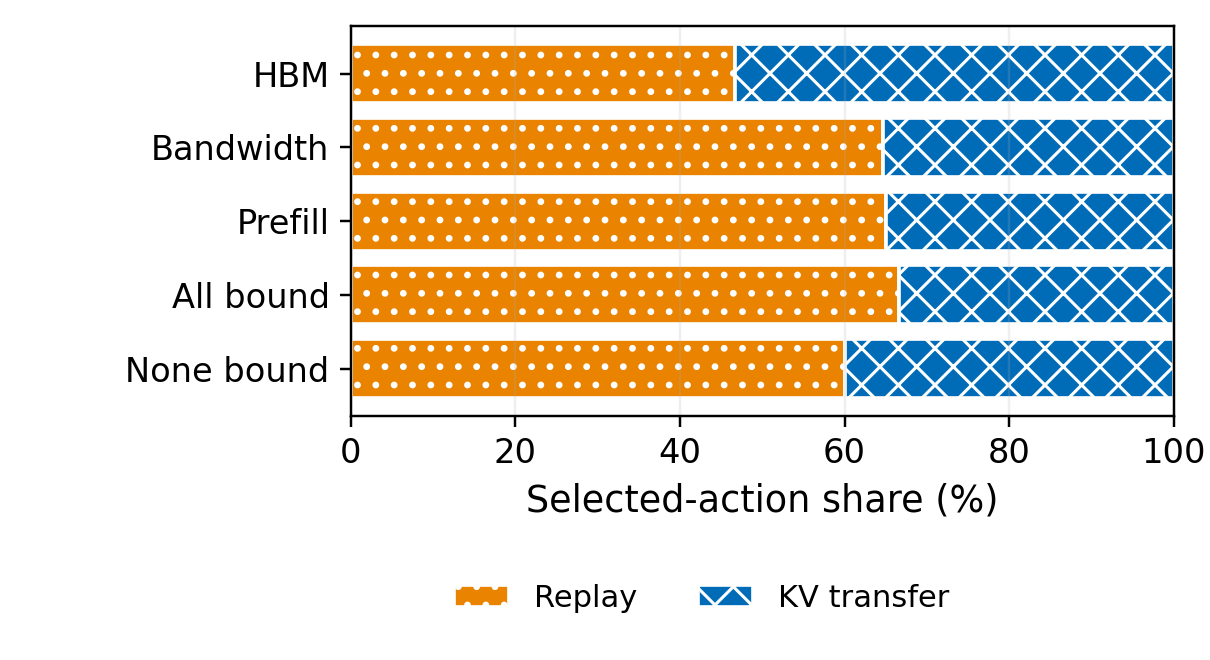
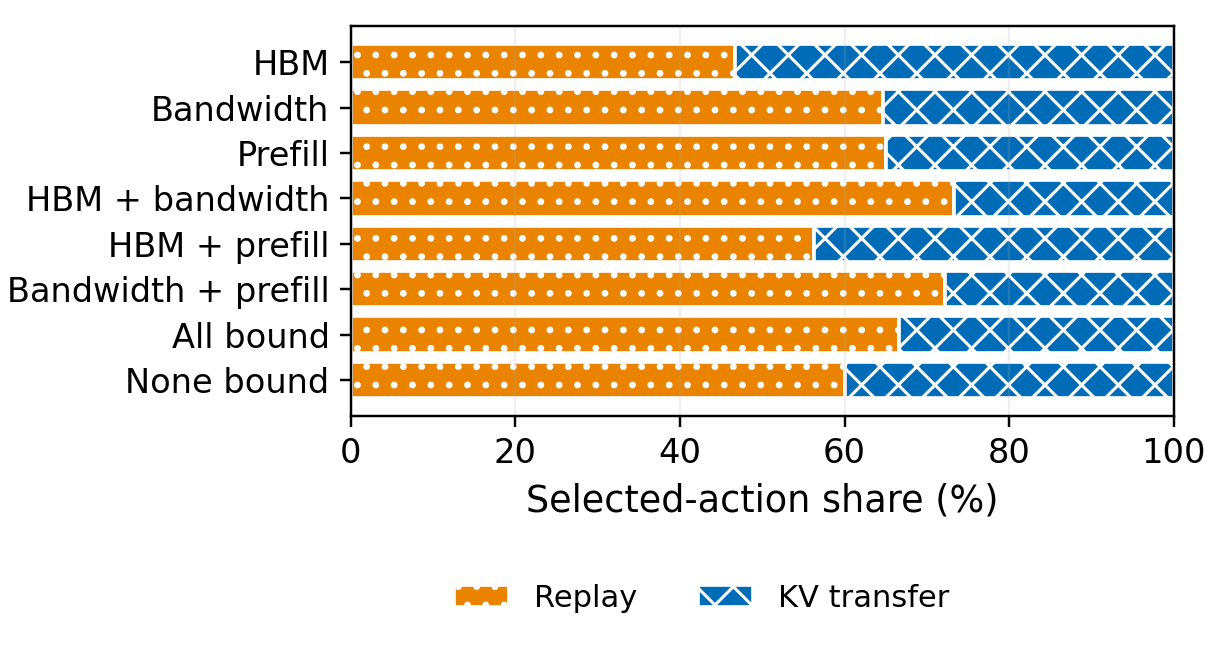
Show every constraint combination in action mix

Changed region(s): [[0.0, 0.0606, 0.9785, 0.6061]]

diff --git a/agent-migrate/queue-haul/plot_pooled_action_adaptation.py b/agent-migrate/queue-haul/plot_pooled_action_adaptation.py
@@ -36,11 +36,14 @@ CASE_NAMES = {
     "constraint/quota-30": "Germany replay quota",
 }
 ACTION_MIX_CASES = (
-    ("single/hbm", "HBM"),
-    ("single/bandwidth", "Bandwidth"),
-    ("single/prefill", "Prefill"),
-    ("single/all-bound", "All bound"),
-    ("single/none-bound", "None bound"),
+    ("constraints/hbm", "HBM"),
+    ("constraints/bandwidth", "Bandwidth"),
+    ("constraints/prefill", "Prefill"),
+    ("constraints/hbm-bandwidth", "HBM + bandwidth"),
+    ("constraints/hbm-prefill", "HBM + prefill"),
+    ("constraints/bandwidth-prefill", "Bandwidth + prefill"),
+    ("constraints/all", "All bound"),
+    ("constraints/none", "None bound"),
 )
 plot_style.apply()
 
@@ -72,33 +75,32 @@ def pooled_composition(rows):
     return output
 
 
-def single_bottleneck_scenarios(bound, released):
-    def make(case, hbm=False, prefill=False, bandwidth=False):
+def constraint_scenarios(bound, released):
+    def make(case, constraints):
         scenario = {**released, "condition_id": case,
                     "planning_state": case}
         scenario["background"] = {
-            "east": bound["background"]["east"] if hbm
+            "east": bound["background"]["east"] if "hbm" in constraints
             else released["background"]["east"],
-            "germany": bound["background"]["germany"] if prefill
+            "germany": bound["background"]["germany"] if "prefill" in constraints
             else released["background"]["germany"],
         }
         scenario["kv_capacity_fraction"] = {
-            "east": bound["kv_capacity_fraction"]["east"] if hbm
+            "east": bound["kv_capacity_fraction"]["east"]
+            if "hbm" in constraints
             else released["kv_capacity_fraction"]["east"],
             "germany": released["kv_capacity_fraction"]["germany"],
         }
-        source = bound if bandwidth else released
+        source = bound if "bandwidth" in constraints else released
         scenario.update(bandwidth=source["bandwidth"],
                         bandwidth_mbps=source["bandwidth_mbps"])
         return scenario
 
-    return {
-        "single/hbm": make("single-hbm", hbm=True),
-        "single/bandwidth": make("single-bandwidth", bandwidth=True),
-        "single/prefill": make("single-prefill", prefill=True),
-        "single/all-bound": bound,
-        "single/none-bound": released,
-    }
+    names = (case.removeprefix("constraints/") for case, _ in ACTION_MIX_CASES)
+    return {f"constraints/{name}": make(name, set(name.split("-"))
+            if name not in {"all", "none"} else
+            {"hbm", "bandwidth", "prefill"} if name == "all" else set())
+            for name in names}
 
 
 def solve_case(scenario, manifest, profile, fraction):
@@ -117,16 +119,16 @@ def solve_case(scenario, manifest, profile, fraction):
     return problem, result
 
 
-def single_bottleneck_actions(plan_paths, fraction=2 / 3):
+def constraint_combination_actions(plan_paths, fraction=2 / 3):
     profile = campaign.ModelProfile.load(campaign.MODEL_PATH)
     cases = {case: (scenario, manifest)
              for case, scenario, manifest in pooled_cases(plan_paths)}
     bound, manifest = cases["hardware_gap/all-bind"]
     released, released_manifest = cases["hardware_gap/all-release"]
     if manifest != released_manifest:
-        raise RuntimeError("single-bottleneck cases require one matched pack")
+        raise RuntimeError("constraint combinations require one matched pack")
     rows = []
-    for case, scenario in single_bottleneck_scenarios(bound, released).items():
+    for case, scenario in constraint_scenarios(bound, released).items():
         problem, result = solve_case(scenario, manifest, profile, fraction)
         rows.append({"case_id": case, "sessions": len(problem.sessions),
                      "selected_sessions": len(result.moves),
@@ -416,7 +418,7 @@ def main():
         rows = list(csv.DictReader(handle))
     selected = at_fraction(rows)
     composition = pooled_composition(rows)
-    mixes = controlled_action_mixes(single_bottleneck_actions(args.plan))
+    mixes = controlled_action_mixes(constraint_combination_actions(args.plan))
     episodes = episode_actions(args.plan)
     write_csv(composition, args.out_dir / "pooled_demand_composition.csv")
     write_csv(episodes, args.out_dir / "matched_episode_actions.csv")

diff --git a/agent-migrate/queue-haul/tests/test_pooled_action_adaptation.py b/agent-migrate/queue-haul/tests/test_pooled_action_adaptation.py
@@ -2,7 +2,7 @@
 Claim:
 Action views select one Queue-Haul plan per case. Controlled bars report the
 total replay/KV composition of selected actions from matched 28-session packs
-under exactly one HBM, bandwidth, or prefill bottleneck.
+under every combination of HBM, bandwidth, and prefill bottlenecks.
 
 Plausible wrong implementations:
 - Pool raw action counts, overweighting cases with more sessions.
@@ -10,7 +10,7 @@ Plausible wrong implementations:
 - Mix policies or duplicate a designed case at a requested-shed coordinate.
 - Normalize controlled bars by all source sessions instead of selected actions.
 - Include unaccounted selected sessions or a mismatched pack.
-- Leave a second constraint bound in a nominally single-bottleneck case.
+- Omit a constraint combination or bind the wrong subset.
 """
 
 import pytest
@@ -18,7 +18,7 @@ import pytest
 from plot_pooled_action_adaptation import (
     ACTION_MIX_CASES, ACTION_MIX_FIGSIZE, ACTION_MIX_LABEL_SIZE,
     ACTION_MIX_LEGEND_SIZE, ACTION_MIX_TICK_SIZE, at_fraction,
-    controlled_action_mixes, pooled_composition, single_bottleneck_scenarios,
+    constraint_scenarios, controlled_action_mixes, pooled_composition,
 )
 
 
@@ -69,7 +69,7 @@ def test_controlled_mix_normalizes_selected_actions_without_n(monkeypatch):
         controlled_action_mixes(rows)
 
 
-def test_single_bottleneck_scenarios_release_the_other_two_constraints():
+def test_constraint_scenarios_bind_each_requested_subset():
     released = {
         "background": {"east": [.25, 0], "germany": [.25, 0]},
         "kv_capacity_fraction": {"east": 1, "germany": 1},
@@ -82,24 +82,31 @@ def test_single_bottleneck_scenarios_release_the_other_two_constraints():
         "bandwidth": "controlled", "bandwidth_mbps": {"east": 1, "germany": 3},
     }
 
-    cases = single_bottleneck_scenarios(bound, released)
-    assert cases["single/hbm"]["background"] == {
+    cases = constraint_scenarios(bound, released)
+    assert cases["constraints/hbm"]["background"] == {
         "east": [.25, .9], "germany": [.25, 0]}
-    assert cases["single/hbm"]["bandwidth"] == "natural"
-    assert cases["single/hbm"]["kv_capacity_fraction"]["east"] == .1
-    assert cases["single/bandwidth"]["background"] == released["background"]
-    assert cases["single/bandwidth"]["bandwidth"] == "controlled"
-    assert cases["single/bandwidth"]["kv_capacity_fraction"]["east"] == 1
-    assert cases["single/prefill"]["background"] == {
+    assert cases["constraints/hbm"]["bandwidth"] == "natural"
+    assert cases["constraints/hbm"]["kv_capacity_fraction"]["east"] == .1
+    assert cases["constraints/bandwidth"]["background"] == released["background"]
+    assert cases["constraints/bandwidth"]["bandwidth"] == "controlled"
+    assert cases["constraints/bandwidth"]["kv_capacity_fraction"]["east"] == 1
+    assert cases["constraints/prefill"]["background"] == {
         "east": [.25, 0], "germany": [.75, 0]}
-    assert cases["single/prefill"]["kv_capacity_fraction"]["east"] == 1
+    assert cases["constraints/prefill"]["kv_capacity_fraction"]["east"] == 1
+    assert cases["constraints/hbm-bandwidth"]["bandwidth"] == "controlled"
+    assert cases["constraints/hbm-bandwidth"]["background"]["germany"] == [.25, 0]
+    assert cases["constraints/hbm-prefill"]["bandwidth"] == "natural"
+    assert cases["constraints/bandwidth-prefill"]["kv_capacity_fraction"]["east"] == 1
+    assert cases["constraints/all"]["background"] == bound["background"]
+    assert cases["constraints/all"]["bandwidth"] == "controlled"
+    assert cases["constraints/none"]["background"] == released["background"]
 
 
-def test_action_mix_uses_five_resource_states_with_bound_extremes_adjacent():
-    assert len(ACTION_MIX_CASES) == 5
+def test_action_mix_uses_all_eight_constraint_combinations():
+    assert len(ACTION_MIX_CASES) == 8
     assert ACTION_MIX_CASES[-2:] == (
-        ("single/all-bound", "All bound"),
-        ("single/none-bound", "None bound"),
+        ("constraints/all", "All bound"),
+        ("constraints/none", "None bound"),
     )
     assert all(case != "constraint/quota-30" for case, _ in ACTION_MIX_CASES)
     assert ACTION_MIX_FIGSIZE == (5.5, 3)

diff --git a/agent-migrate/queue-haul/README.md b/agent-migrate/queue-haul/README.md
@@ -792,10 +792,10 @@ uv run python queue-haul/plot_pooled_resource_pressure.py \
 ```
 
 The action-adaptation views use the same equal-case sweep. The primary chart
-shows Queue-Haul's total replay/KV composition with only HBM, bandwidth, or
-prefill bound, followed by all-bound and none-bound states at a common 67%
-target. Every 100%-stacked bar uses the same 28-session pack; absolute selected-
-session counts and destination identities are intentionally omitted.
+shows Queue-Haul's total replay/KV composition under all eight combinations of
+HBM, bandwidth, and prefill constraints at a common 67% target. Every 100%-
+stacked bar uses the same 28-session pack; absolute selected-session counts and
+destination identities are intentionally omitted.
 
 ```bash
 uv run python queue-haul/plot_pooled_action_adaptation.py \
